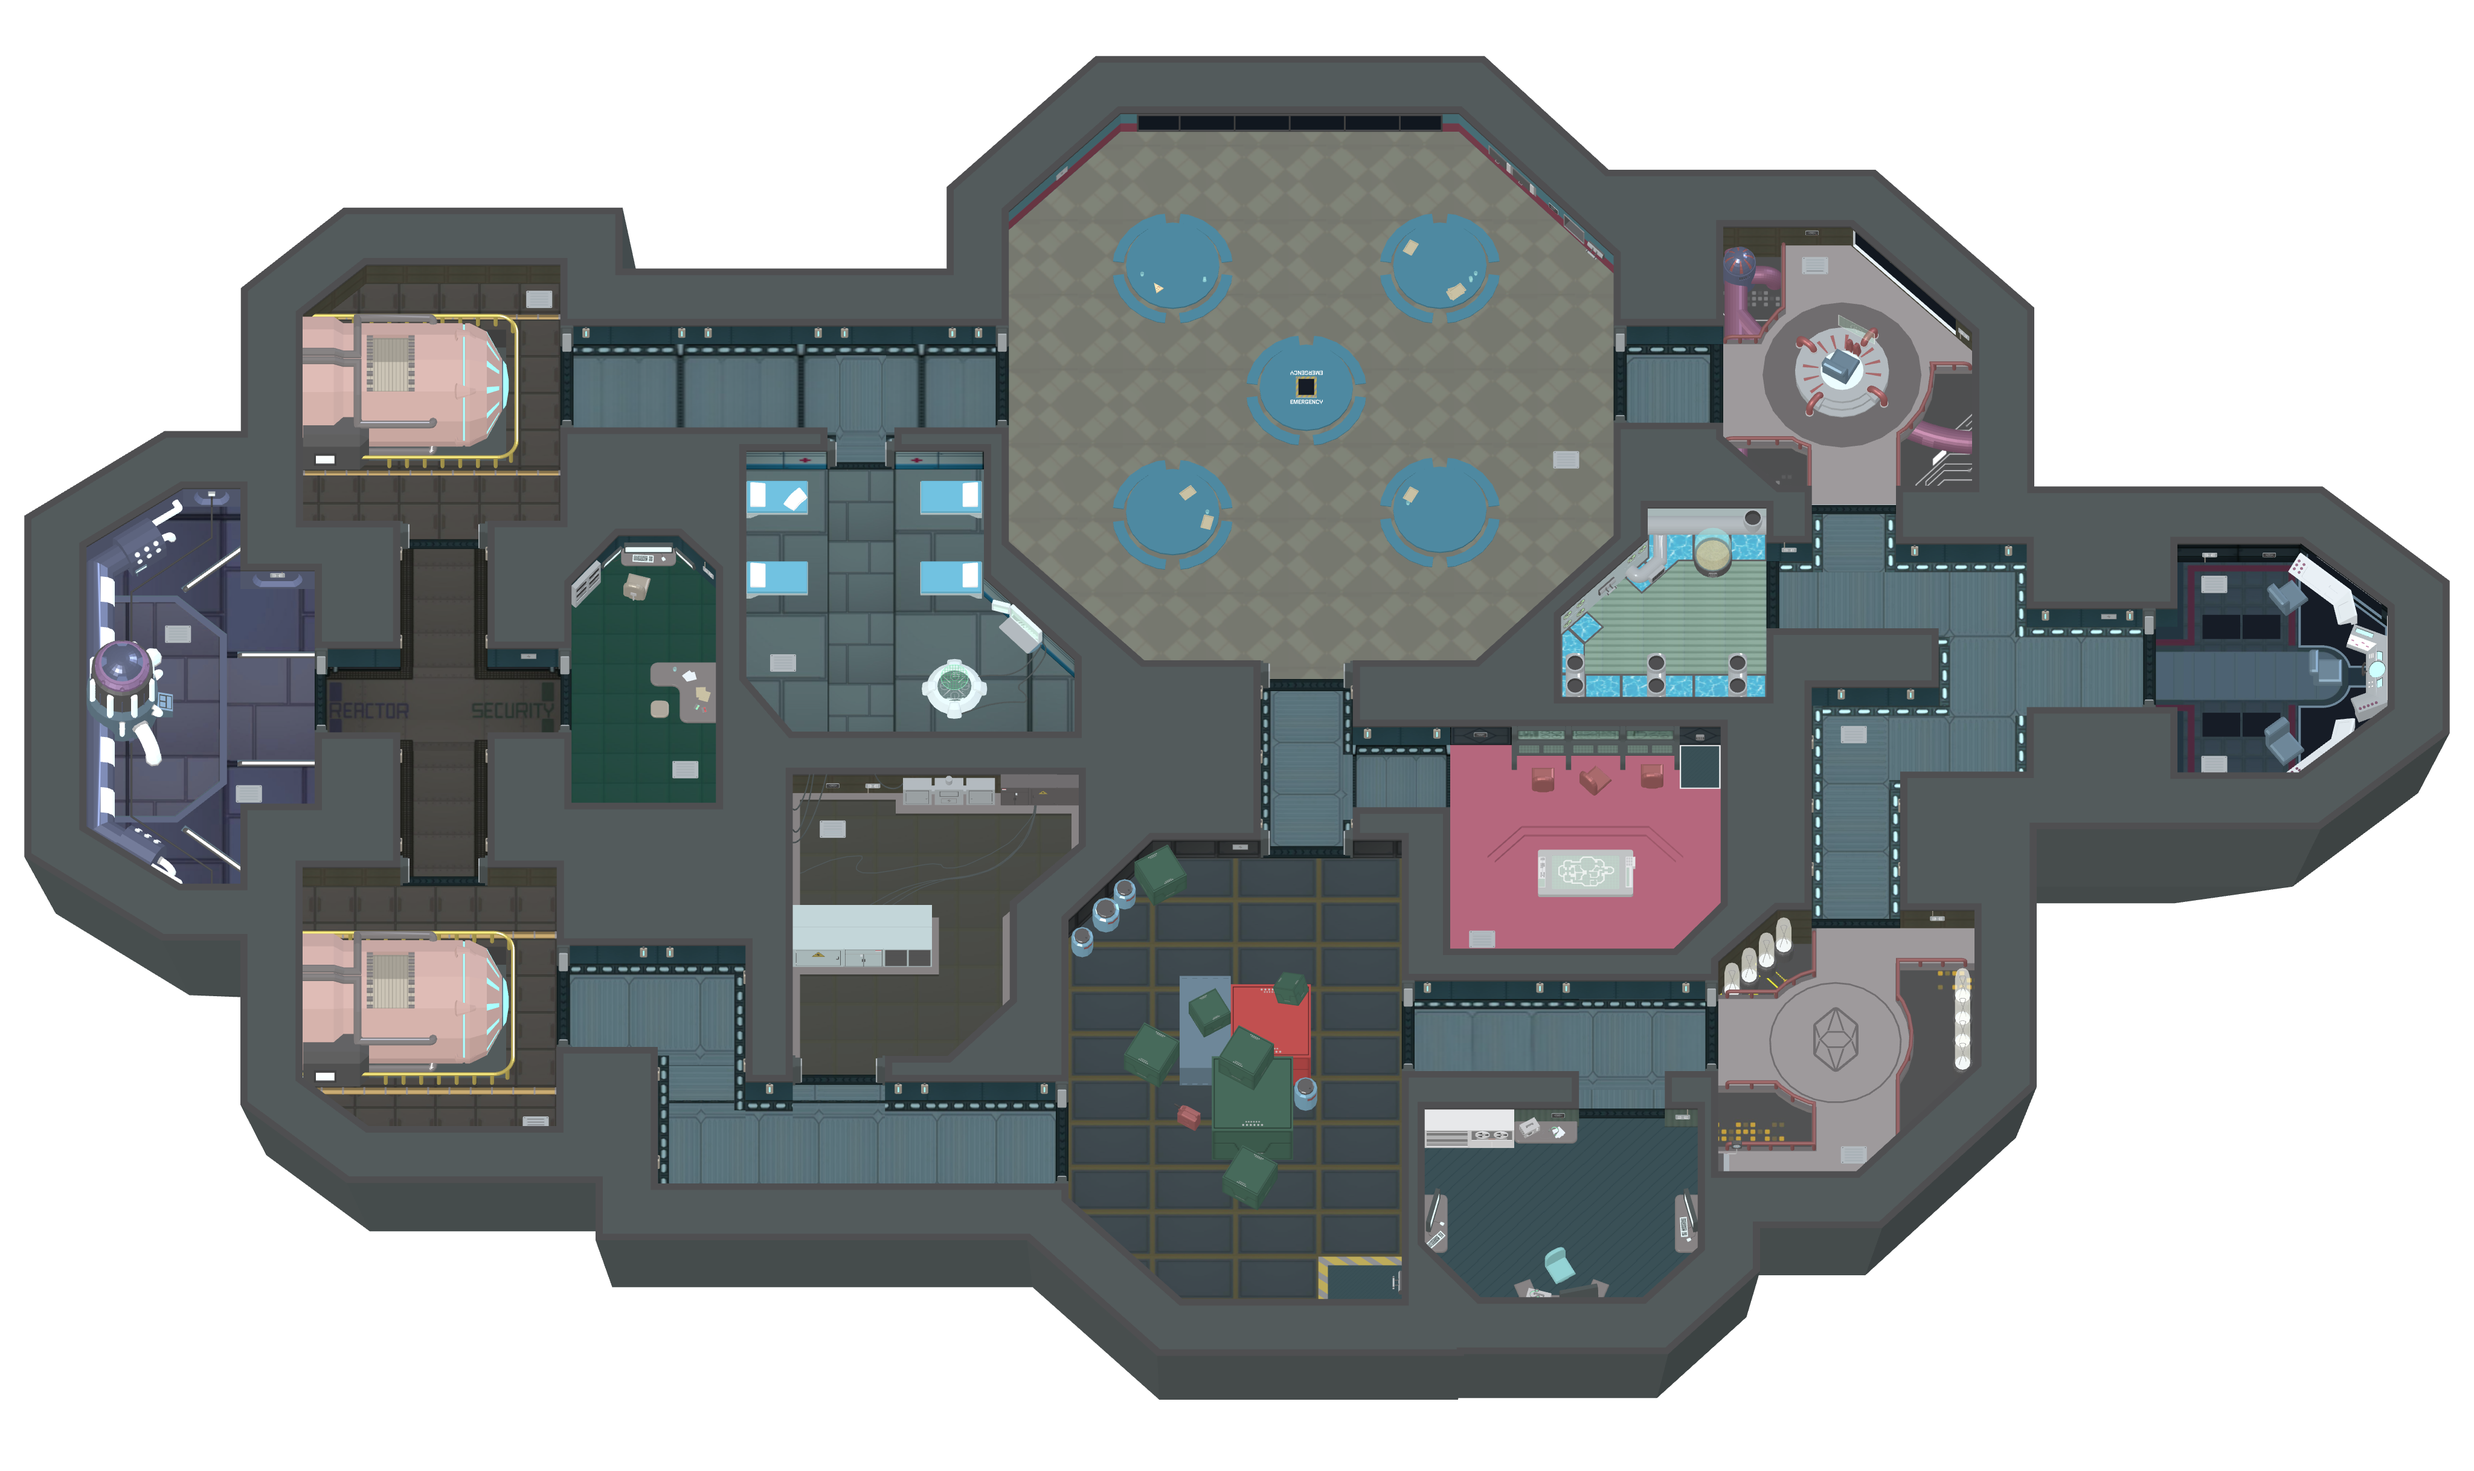
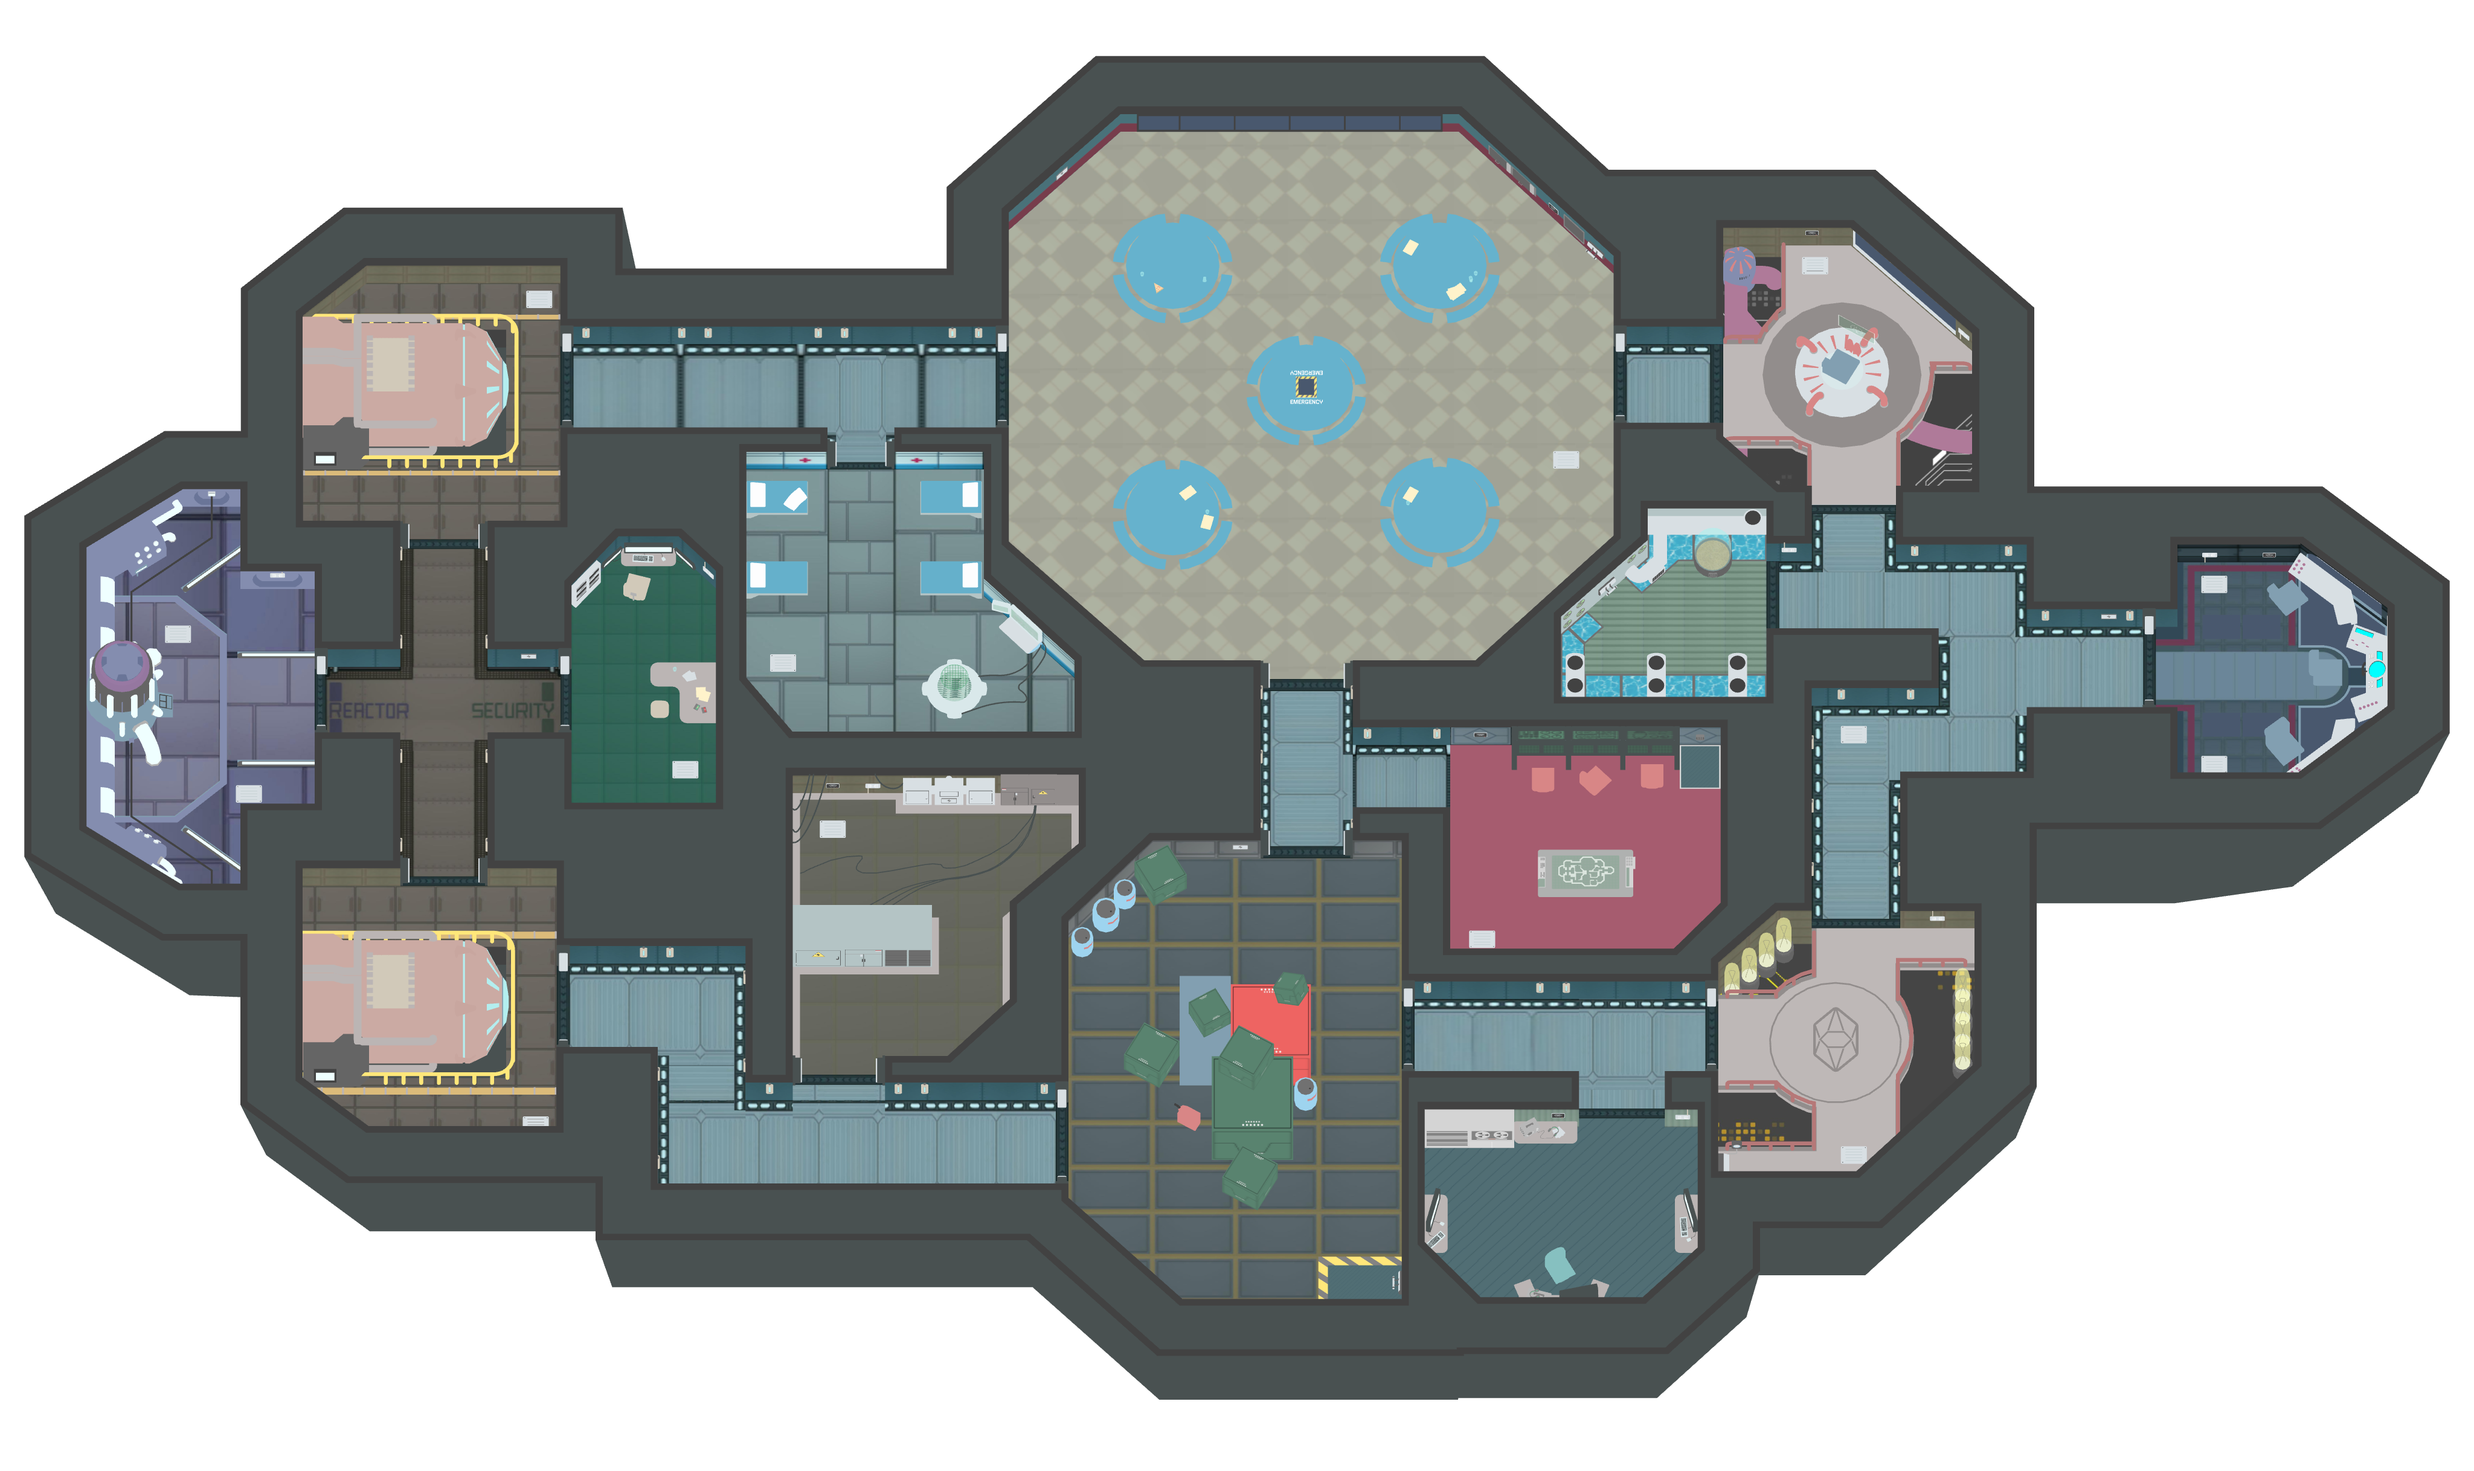
Fix washed-out colour and the four-unit map misalignment
Three reported problems, two of which shared a root cause.

Colour. The bake was lit with an ambient plus two directionals totalling 4.4
intensity, which pushed the artwork toward grey. Among Us surfaces are sprite
art with their shading already painted in, so lighting them again only dilutes
them. Measured against the authored texture albedo, the old bake sat at 87% of
its true value; ambient-only variants were worse still, at 45-52%, because
Three.js r155 and later meter lights in physical units. The bake is now unlit,
which reproduces the authored palette exactly, and the map reads in its proper
colours again.

Alignment. Collision and interaction placement were both wrong for one reason:
the world frame was anchored to the model's bounding box, and that box includes
the outer hull shell. The shell is inset 0.2183 model units from the walkable
floor on every side - measured, and symmetric to four decimals - so anchoring to
it stretched the whole deck outward. The walkable floor ended up sitting 3.2 to
4.3 units inside the room rectangles, which put rooms, tasks, vents and sabotage
repair points off by roughly four units each.

The frame is now anchored to the model's floor extent instead. Walkable floor
lands within 0.5 units of the room span, against 3.2 to 4.3 before, and the
walkable area grows from 33.9% to 39.3% of the deck as floor that was previously
cut off is recovered. The walk grid, the deck placement, and every task, station
[…]

diff --git a/public/src/maps/skeldWalkGrid.js b/public/src/maps/skeldWalkGrid.js
@@ -1,15 +1,19 @@
 // Walkability derived from the supplied 3D Skeld model, not hand-authored.
 //
-// The model was rendered straight down with every surface coloured by its world
+// The model is rendered straight down with every surface coloured by its world
 // height; depth testing means each pixel reports the highest surface there, so the
-// floor and the wall tops separate cleanly into two modes (-0.010 and +0.154).
-// Everything at or below the midpoint is floor. The result is a bitmask in the game's
-// own world frame, so the art and the collision cannot drift apart.
+// floor and the wall tops separate into two clean modes. Everything at or below the
+// midpoint is floor.
+//
+// The world frame is anchored to the model's FLOOR extent rather than its bounding
+// box. The bounding box includes the outer hull shell, which is inset 0.2183 model
+// units from the floor on every side; anchoring to it stretched the whole map
+// outward and put every room, task and vent about four units off.
 export const SKELD_WALK_GRID = Object.freeze({
   cols: 411,
   rows: 231,
   cell: 0.35,
   originX: -76,
   originZ: -38,
[2 lines of base64/hex data omitted]
 });

diff --git a/public/src/maps/theSkeld.js b/public/src/maps/theSkeld.js
@@ -303,7 +303,7 @@ export const THE_SKELD = createMapDefinition({
     assetKey: "skeld-deck",
     image: { width: 4096, height: 2435 },
     groundBox: { x0: 40.157, y0: 123.93, x1: 4055.843, y1: 2275.531 },
-    worldBox: { x0: -67.38, z0: -37.38, x1: 67.26, z1: 36.9 },
+    worldBox: { x0: -71.053, z0: -40.971, x1: 70.934, z1: 40.495 },
     tiltDegrees: 24
   },
   bounds: { minX: -76, maxX: 68, minZ: -38, maxZ: 43 },
@@ -328,7 +328,7 @@ export const THE_SKELD = createMapDefinition({
   // The reference clone's nine assignments, on the rooms it puts them in.
   tasks: [
     taskAt("skeld-turn-on-lights", "Turn On The Lights", "electrical", 454, 395, "wiring"),
-    taskAt("skeld-fix-wiring", "Fix The Electricity Wires", "electrical", 486, 439, "wiring"),
+    taskAt("skeld-fix-wiring", "Fix The Electricity Wires", "electrical", 492, 439, "wiring"),
     taskAt("skeld-stabilize-nav", "Stabilize The Ship's Navigation", "navigation", 1127, 286, "route"),
     taskAt("skeld-reboot-wifi", "Reboot The Wifi", "communications", 827, 580, "sequence"),
     taskAt("skeld-empty-garbage", "Empty The Garbage", "storage", 698, 589, "garbage"),
@@ -345,27 +345,27 @@ export const THE_SKELD = createMapDefinition({
   ],
   stations: [
     stationAt("meeting-console", "meeting", "cafeteria", 677, 151),
-    stationAt("skeld-cameras", "security", "security", 378, 269),
-    stationAt("skeld-admin-table", "admin", "admin", 770, 337),
+    stationAt("skeld-cameras", "security", "security", 371, 269),
+    stationAt("skeld-admin-table", "admin", "admin", 771, 339),
     stationAt("skeld-vent-cafeteria", "maintenance", "cafeteria", 804, 183, "vent-hub"),
     stationAt("skeld-vent-admin", "maintenance", "admin", 761, 417, "vent-hub"),
     stationAt("skeld-vent-medbay", "maintenance", "medbay", 442, 276, "vent-port"),
     stationAt("skeld-vent-electrical-a", "maintenance", "electrical", 452, 488, "vent-port"),
-    stationAt("skeld-vent-electrical-b", "maintenance", "electrical", 524, 442, "vent-port"),
-    stationAt("skeld-vent-security", "maintenance", "security", 386, 342, "vent-port"),
-    stationAt("skeld-vent-reactor-upper", "maintenance", "reactor", 198, 254, "vent-engines"),
+    stationAt("skeld-vent-electrical-b", "maintenance", "electrical", 518, 442, "vent-port"),
+    stationAt("skeld-vent-security", "maintenance", "security", 371, 342, "vent-port"),
+    stationAt("skeld-vent-reactor-upper", "maintenance", "reactor", 174, 254, "vent-engines"),
     stationAt("skeld-vent-upper-engine", "maintenance", "upper-engine", 210, 198, "vent-engines"),
-    stationAt("skeld-vent-reactor-lower", "maintenance", "reactor", 198, 348, "vent-engines"),
-    stationAt("skeld-vent-lower-engine", "maintenance", "lower-engine", 310, 510, "vent-engines"),
+    stationAt("skeld-vent-reactor-lower", "maintenance", "reactor", 174, 348, "vent-engines"),
+    stationAt("skeld-vent-lower-engine", "maintenance", "lower-engine", 295, 510, "vent-engines"),
     stationAt("skeld-vent-weapons", "maintenance", "weapons", 971, 178, "vent-starboard"),
     stationAt("skeld-vent-navigation-a", "maintenance", "navigation", 1104, 246, "vent-starboard"),
     stationAt("skeld-vent-navigation-b", "maintenance", "navigation", 1104, 332, "vent-starboard"),
     stationAt("skeld-vent-shields", "maintenance", "shields", 939, 516, "vent-starboard"),
     stationAt("skeld-reactor-alpha", "repair", "reactor", 116, 281, "skeld-reactor-meltdown"),
     stationAt("skeld-reactor-beta", "repair", "reactor", 195, 291, "skeld-reactor-meltdown"),
-    stationAt("skeld-o2-panel", "repair", "o2", 907, 225, "skeld-o2-depletion"),
-    stationAt("skeld-admin-o2", "repair", "admin", 854, 336, "skeld-o2-depletion"),
-    stationAt("skeld-comms-panel", "repair", "communications", 756, 539, "skeld-comms-sabotage"),
+    stationAt("skeld-o2-panel", "repair", "o2", 907, 233, "skeld-o2-depletion"),
+    stationAt("skeld-admin-o2", "repair", "admin", 857, 336, "skeld-o2-depletion"),
+    stationAt("skeld-comms-panel", "repair", "communications", 757, 542, "skeld-comms-sabotage"),
     stationAt("skeld-light-panel", "repair", "electrical", 543, 386, "skeld-lights-out")
   ],
   spawnPoints: [

diff --git a/README.md b/README.md
@@ -12,6 +12,7 @@ The host can select one of three isolated maps: **The Skeld**, **MIRA HQ**, or *
 - 45-second reconnect reservation with rotated rejoin tokens
 - 20 Hz authoritative movement simulation and 10 Hz world snapshots
 - A declarative role framework: each role states its faction, ability (targeting, cooldown, uses), win condition, hooks and extra state, rather than being branched on by id. Abilities run server-side against a narrow API so a role cannot reach past the rules it is allowed to touch. Sixty-three roles ship: 31 crew, 15 operative and 17 neutral, matching the Town Of Us R roster. Roles may also declare lifecycle hooks, so a role can react to a death, a vote or a meeting without the server knowing it exists.
+- The bake is rendered unlit, so the deck keeps the artwork's own palette. Among Us surfaces are painted with their shading already in them; lighting them again only washes the colour toward grey.
 - Collision is derived from that same 3D model rather than hand-authored: the model is rendered straight down with each surface coloured by world height, the floor and wall tops separate into two clean modes, and the result becomes a 411x231 walkability bitmask in the game's world frame. Art and collision therefore cannot drift apart. Authored prop rectangles still stack on top for tables, cabinets and crates.
 - The deck is the only source of Skeld map art. Procedural room floors, walls, corridor fills and the superseded per-room crops are all gone: nothing is drawn over the bake, and nothing unused is downloaded.
 - The deck is a bake of the supplied 3D Skeld model, rendered through an orthographic camera tilted 24 degrees so the floor still reads top-down while each room's far wall stays visible. The model's ground plane is pinned to world coordinates by `render.deck`, so `worldToScreen`, movement and collision are all unchanged - the art is fitted to the game, never the other way round.
